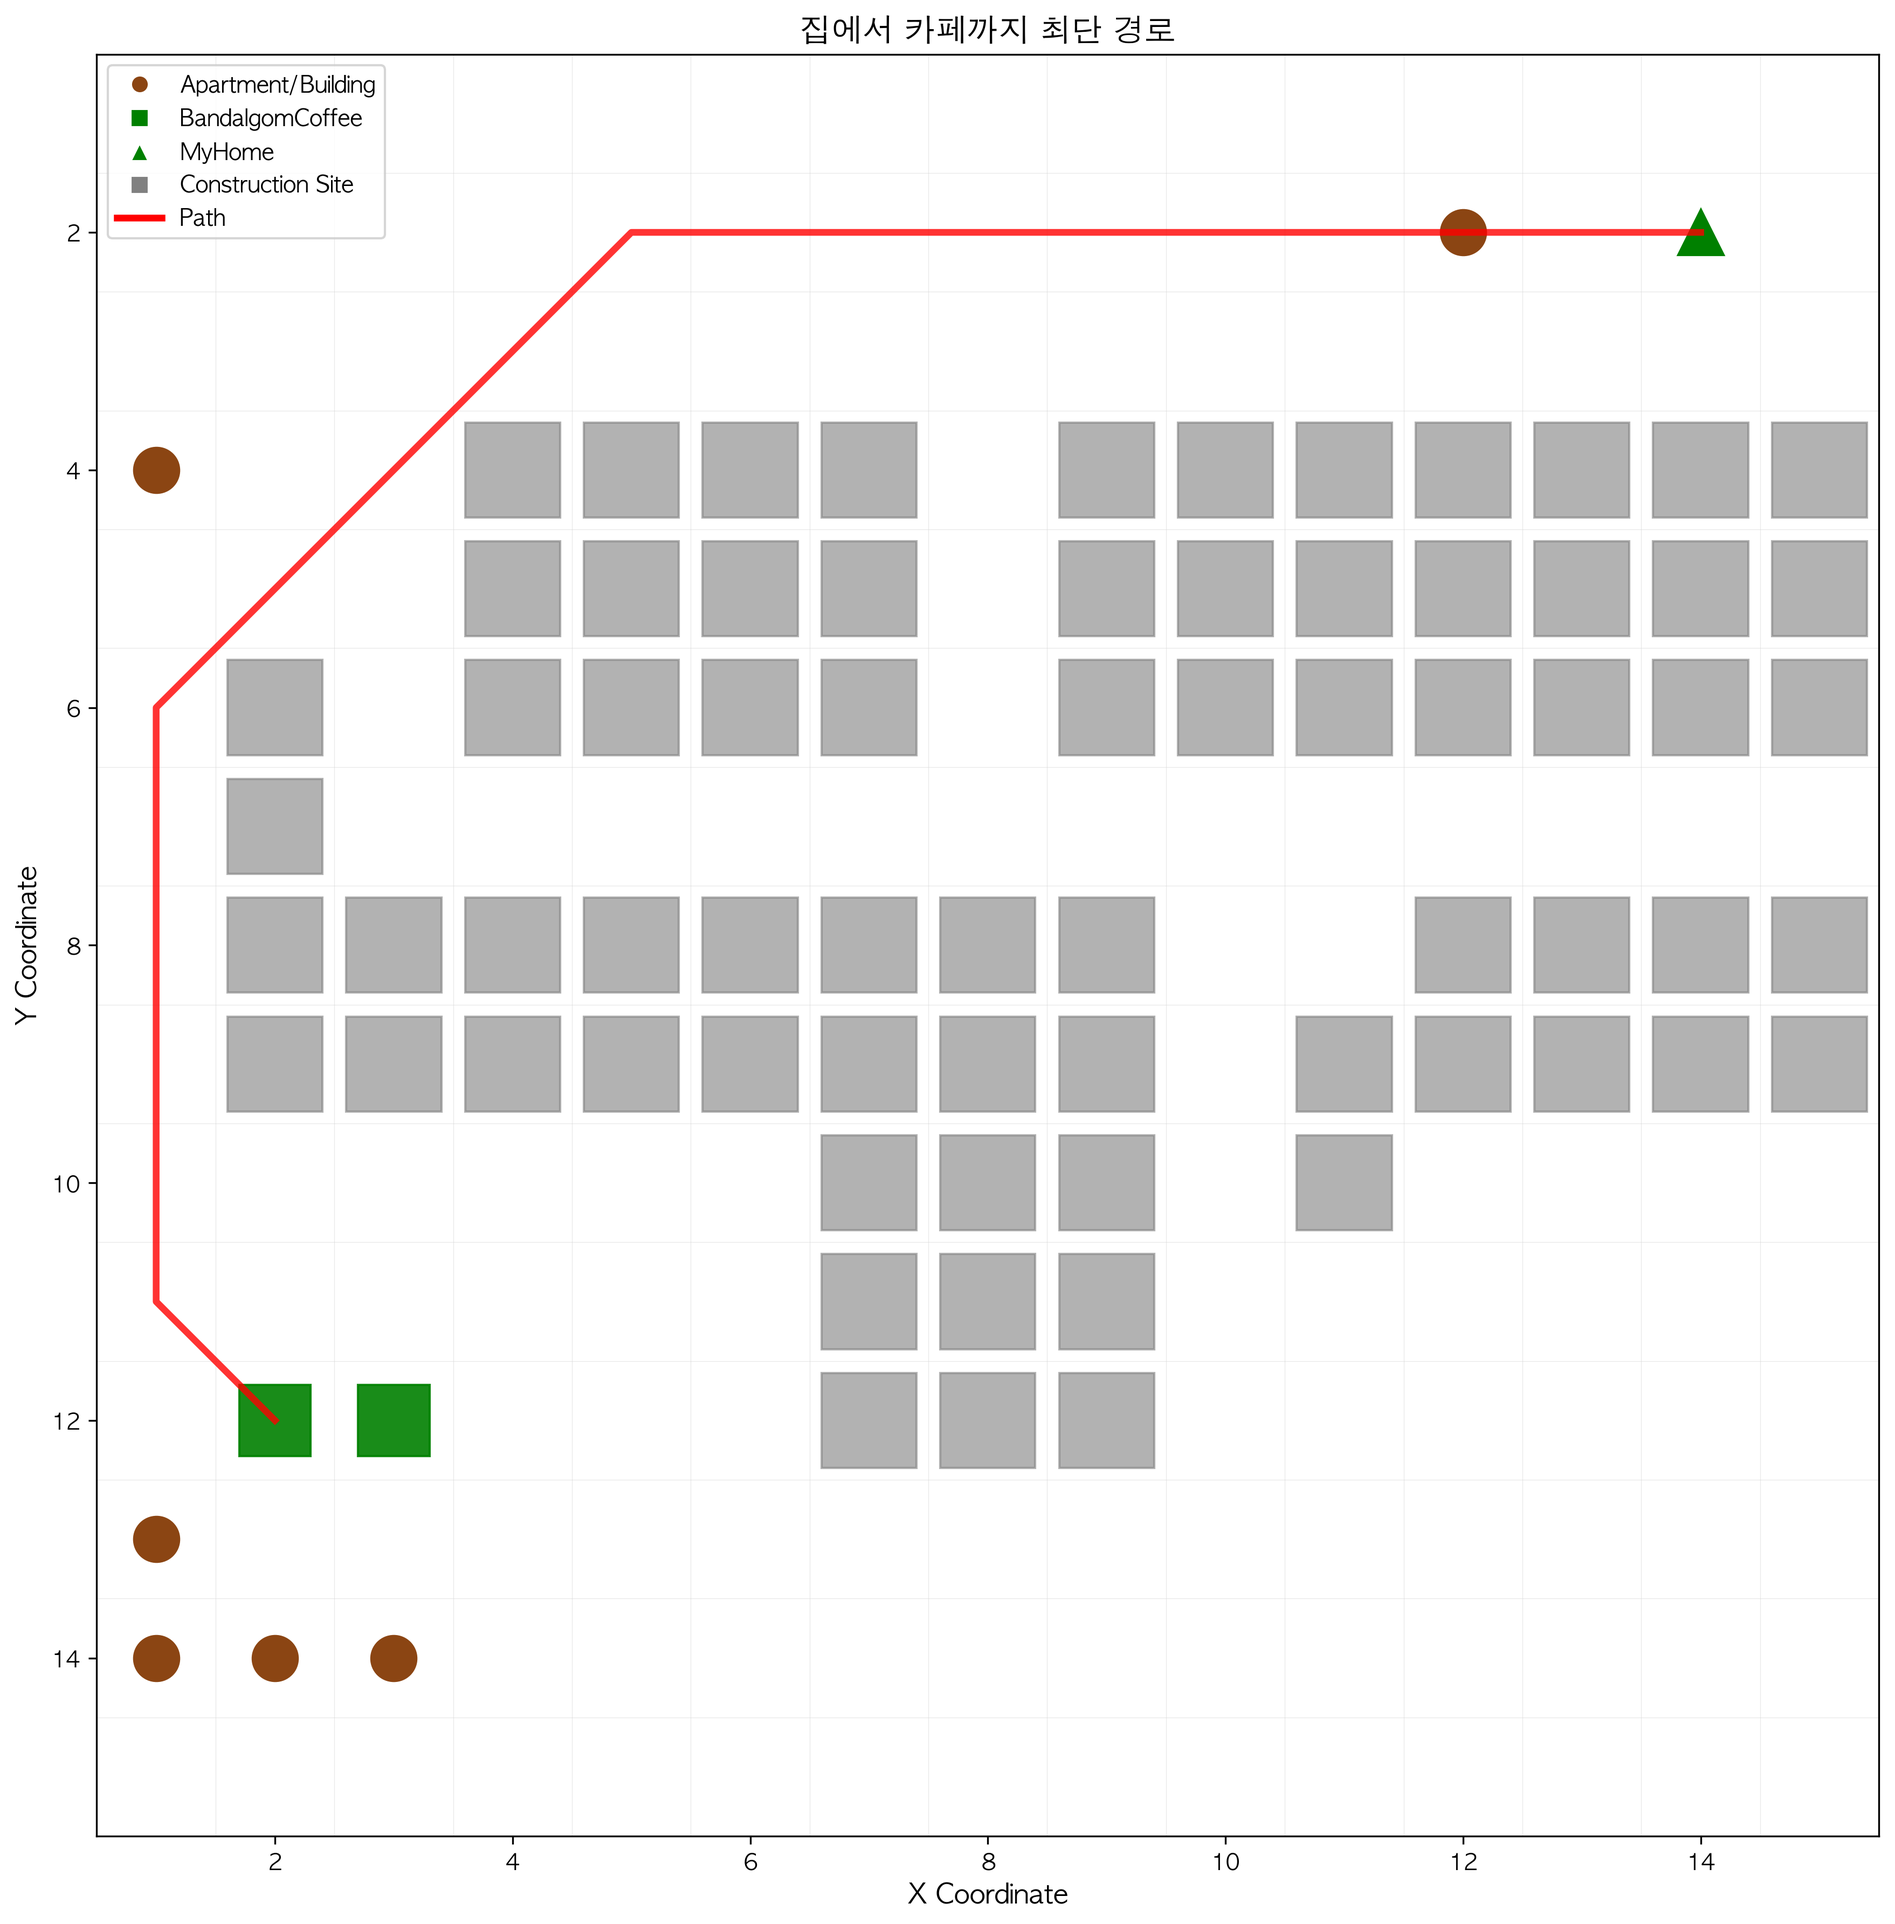
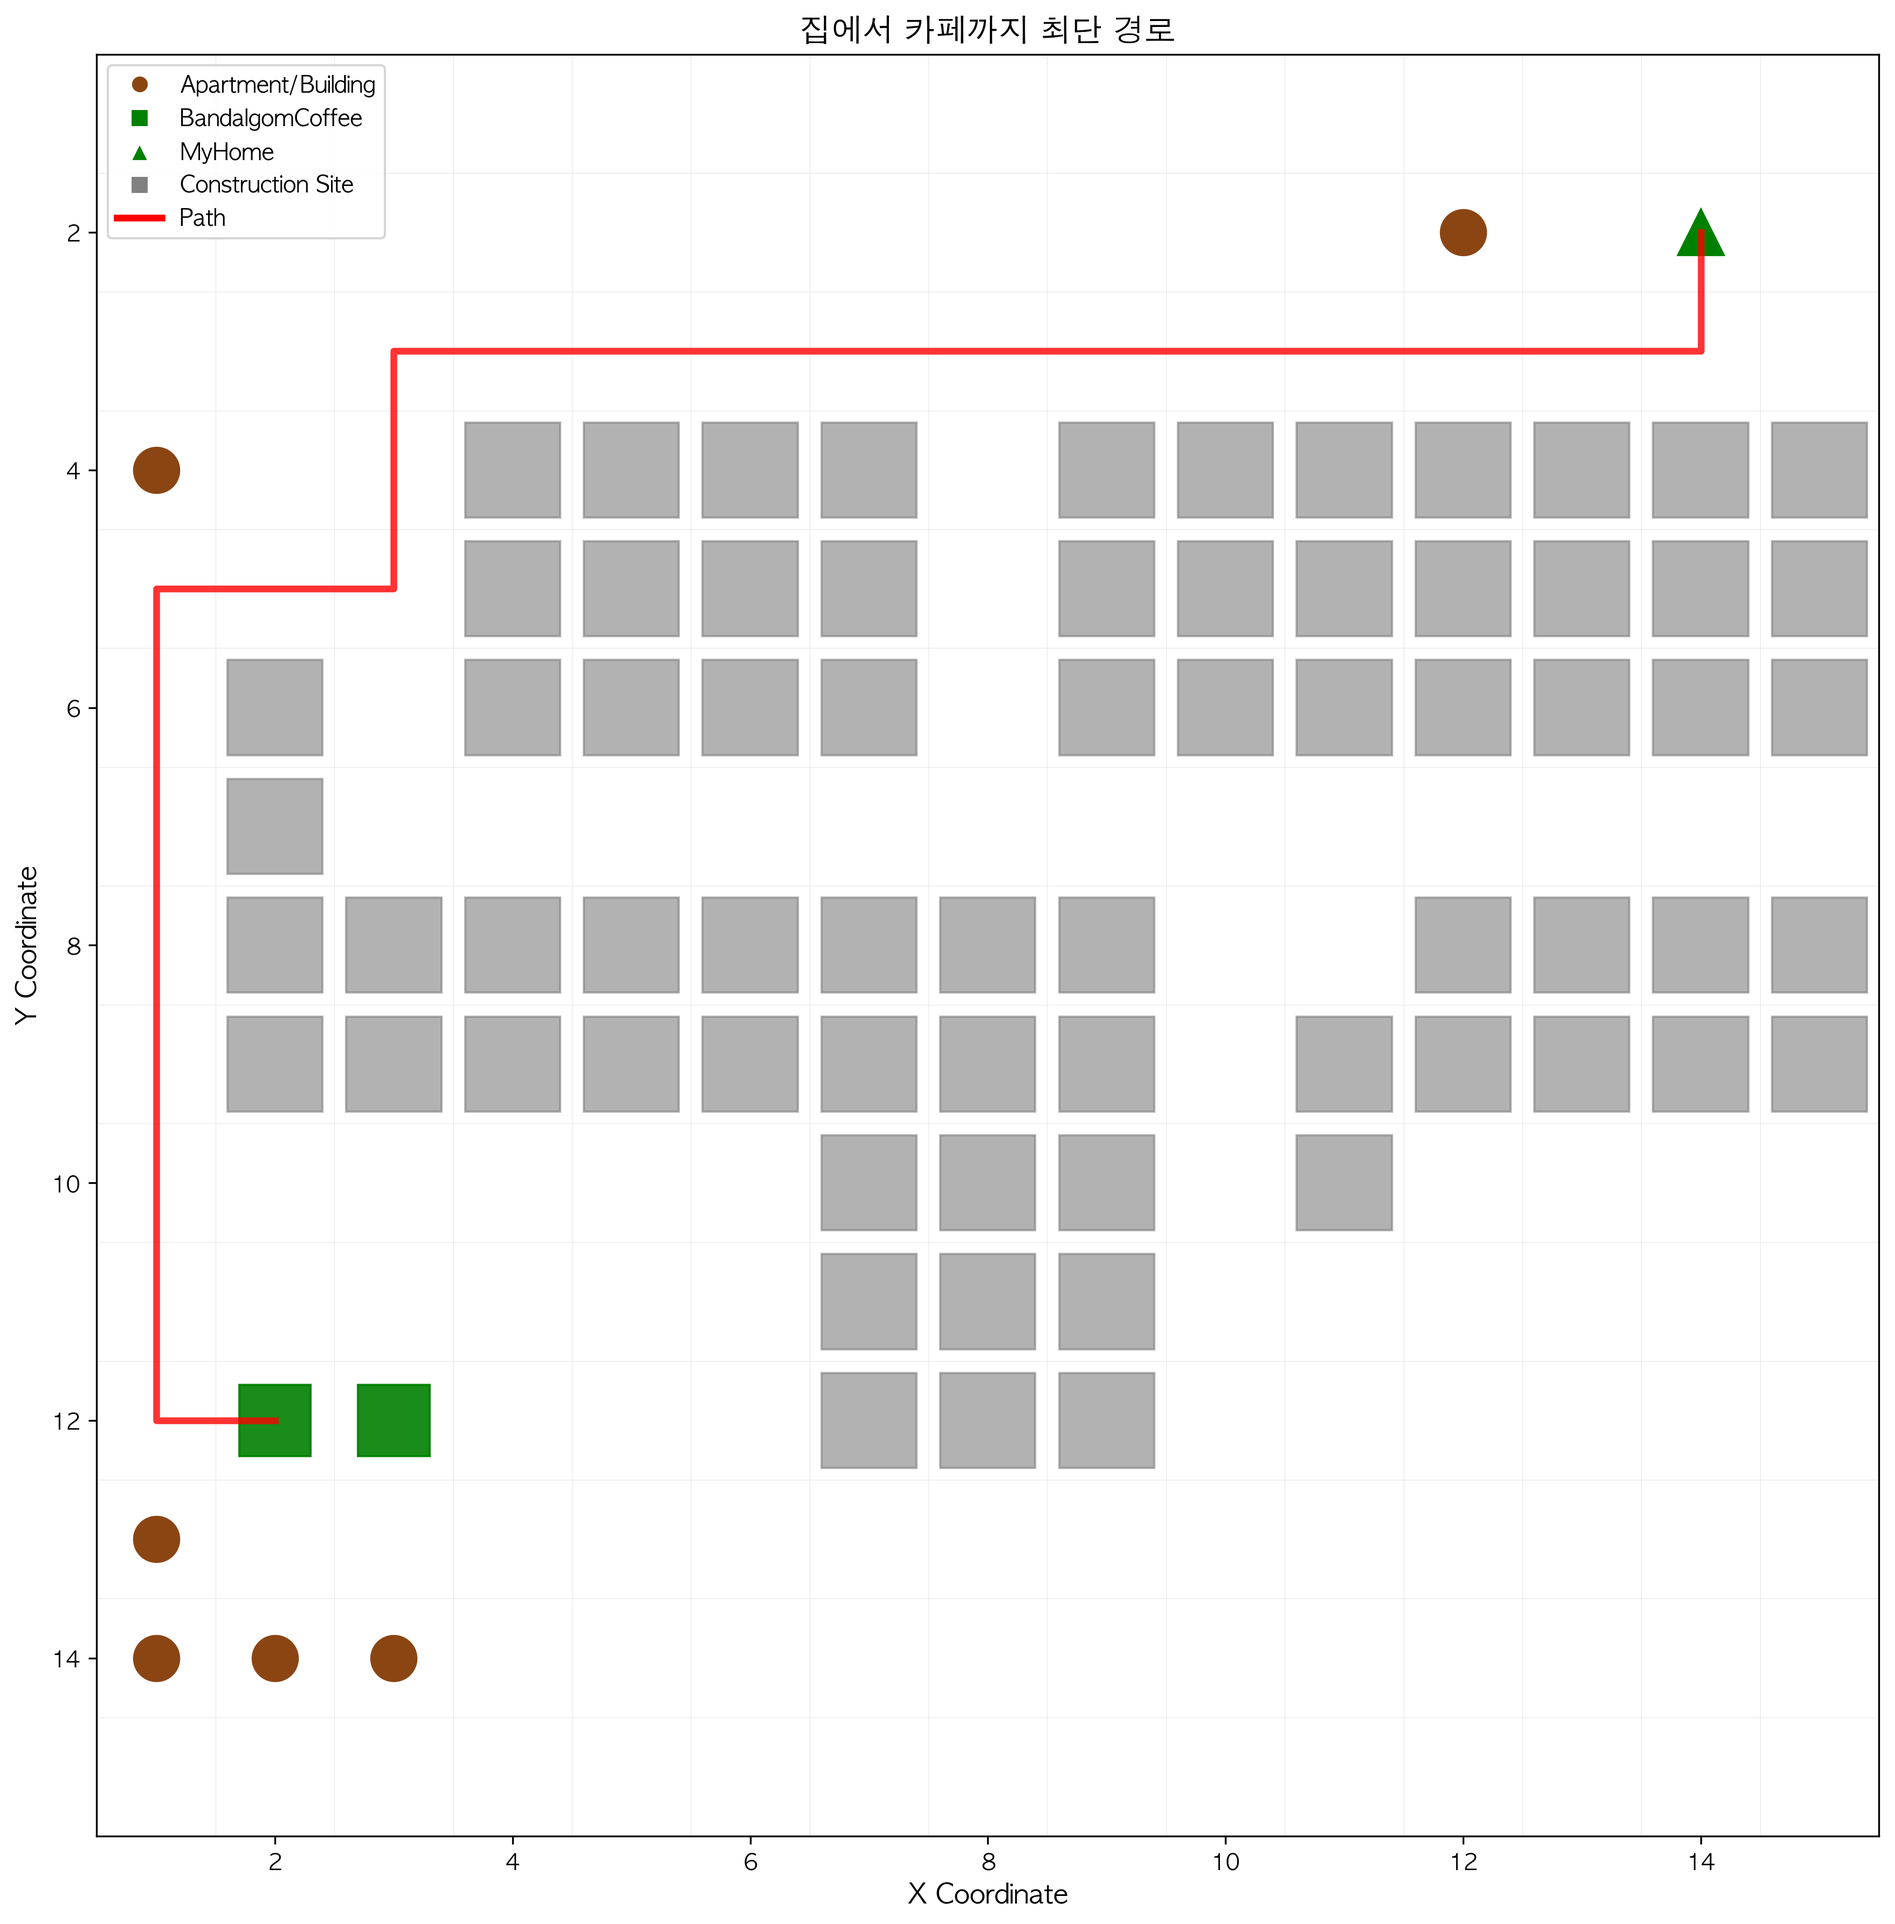
remove diagonal movement calculation in pathfinding

diff --git a/src/map_direct_save.py b/src/map_direct_save.py
@@ -188,13 +188,6 @@ class PathFinder:
             if self.is_valid_position(new_x, new_y):
                 neighbors.append((new_x, new_y))
         
-        # 대각선 4방향 (대각선 이동)
-        diagonal_directions = [(1, 1), (1, -1), (-1, 1), (-1, -1)]
-        for delta_x, delta_y in diagonal_directions:
-            new_x, new_y = x_coord + delta_x, y_coord + delta_y
-            if self.is_valid_position(new_x, new_y):
-                neighbors.append((new_x, new_y))
-        
         return neighbors
     
     def calculate_distance(self, position1, position2):
@@ -254,15 +247,7 @@ class PathFinder:
                     # 경로의 총 거리 계산
                     total_distance = 0
                     for i in range(len(new_path) - 1):
-                        pos1, pos2 = new_path[i], new_path[i + 1]
-                        # 이동 방향에 따라 거리 계산
-                        move_distance = abs(pos2[0] - pos1[0]) + abs(pos2[1] - pos1[1])
-                        if move_distance == 2:
-                            # 대각선 이동: √2 ≈ 1.414
-                            total_distance += 2**0.5
-                        else:
-                            # 직선 이동: 1
-                            total_distance += 1
+                        total_distance += 1
                     
                     return new_path, total_distance
                 
